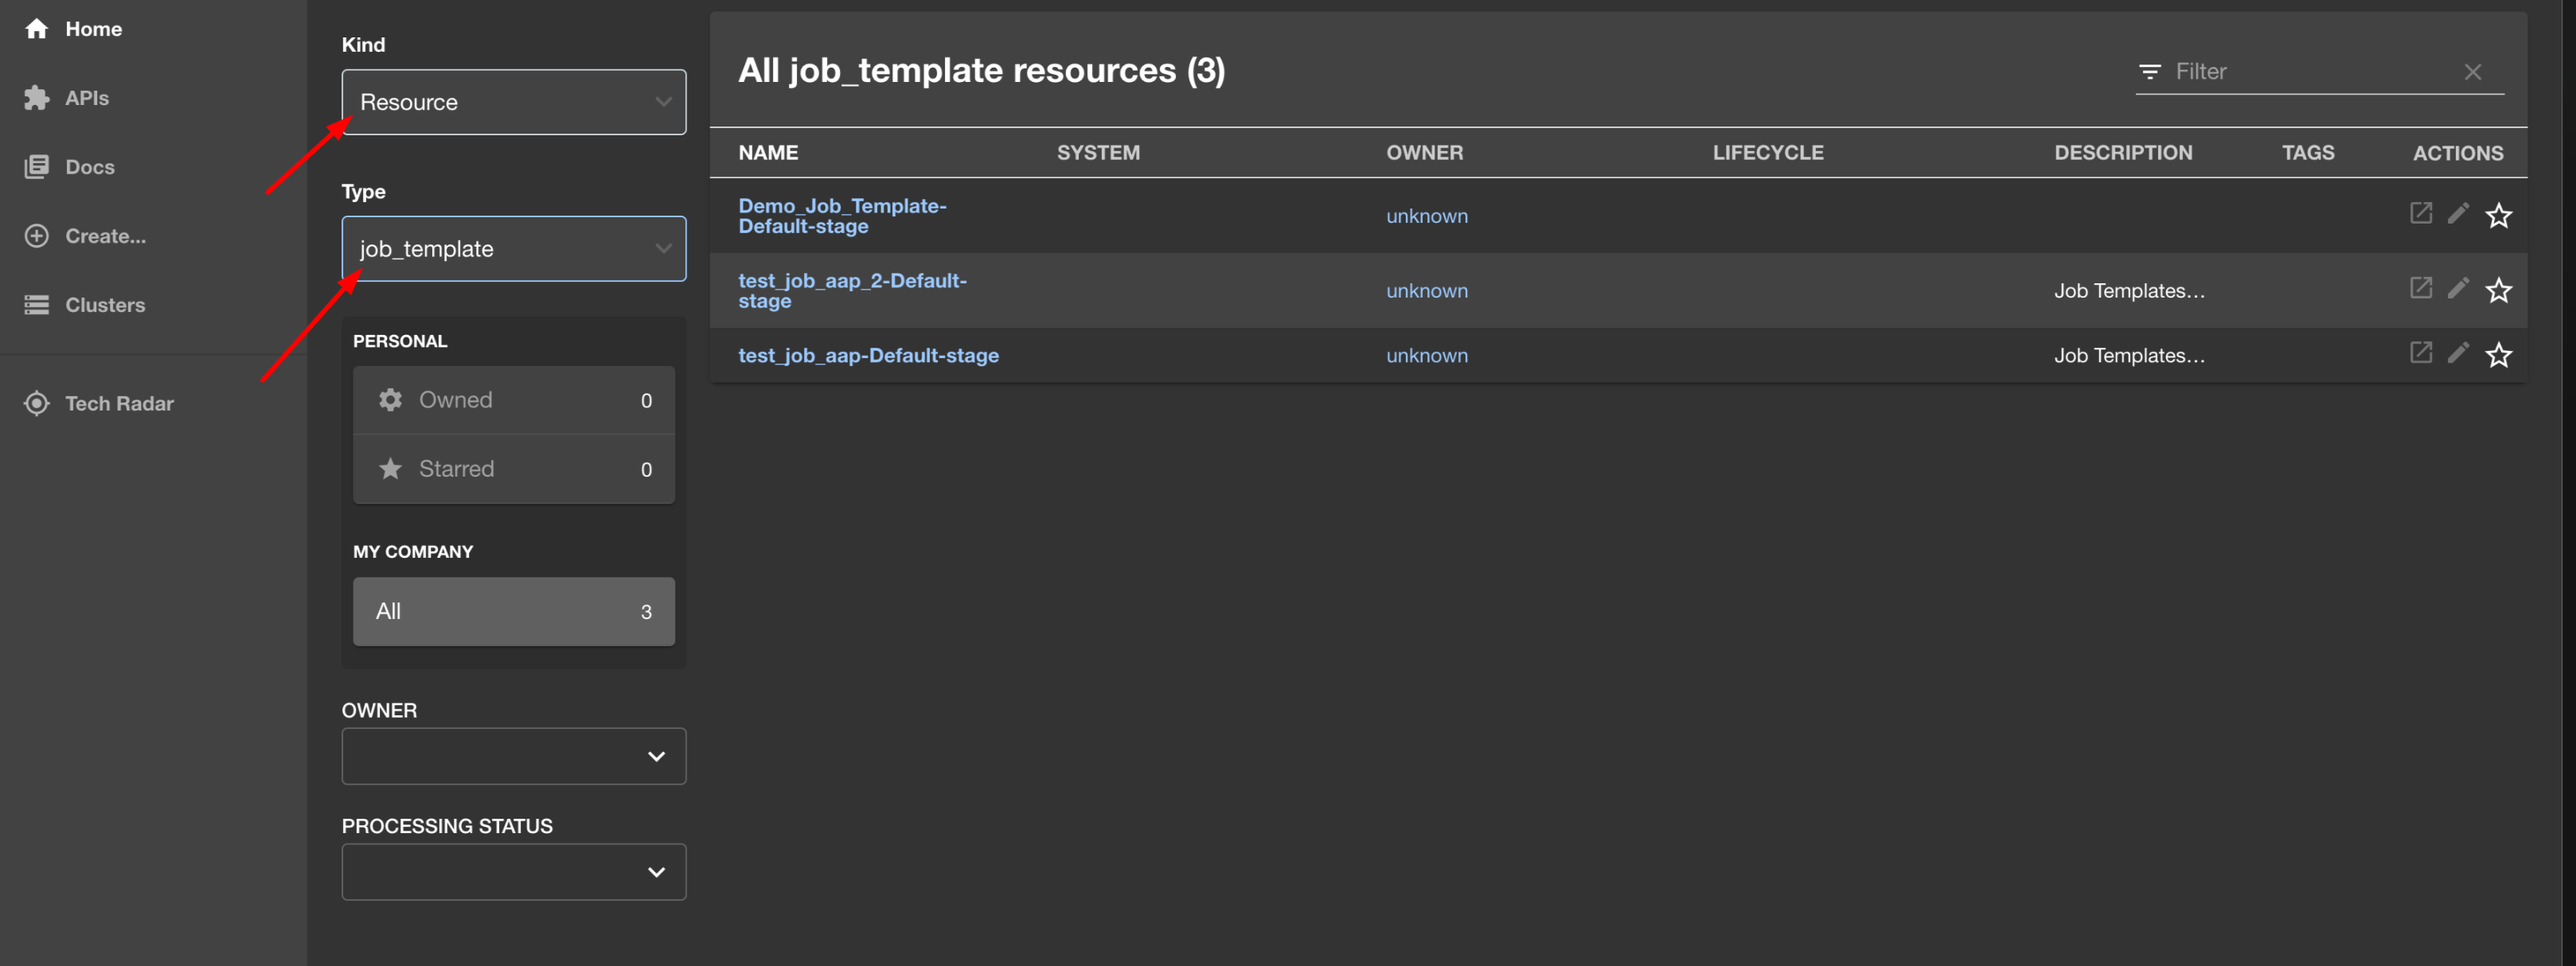
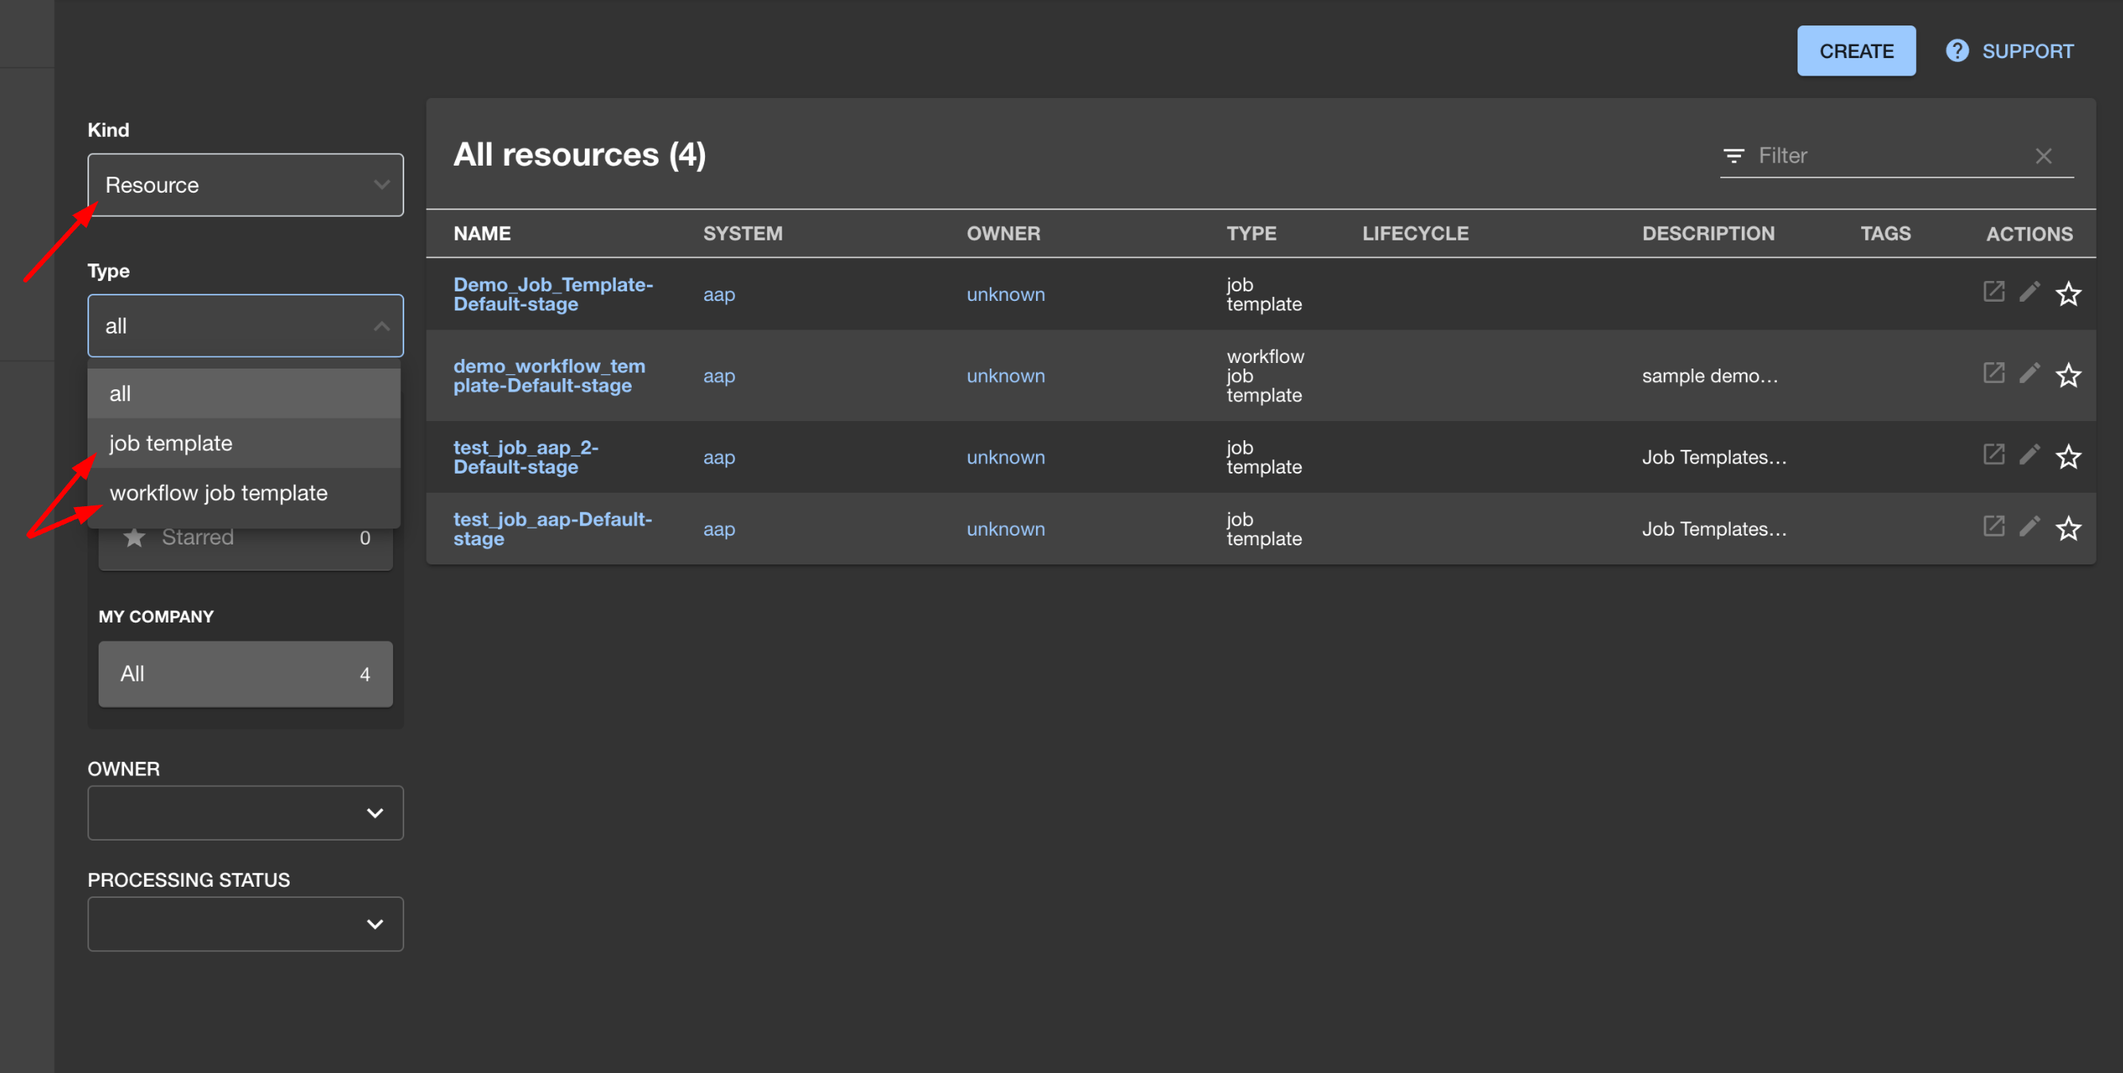
Incorporated SME review suggestions

diff --git a/plugins/aap-backend/README.md b/plugins/aap-backend/README.md
@@ -1,6 +1,6 @@
 # Ansible Automation Platform Backstage provider plugin
 
-The Ansible Automation Platform (AAP) Backstage provider plugin synchronizes the AAP content including job templates into the [Backstage](https://backstage.io/) catalog.
+The Ansible Automation Platform (AAP) Backstage provider plugin synchronizes the accessible templates including job templates and workflow job templates from AAP into the [Backstage](https://backstage.io/) catalog.
 
 ## For administrators
 
@@ -107,9 +107,9 @@ When you start your Backstage application, you can see the following log lines:
 
 ## For users
 
-### Accessing job templates from Ansible Automation Platform in Backstage
+### Accessing templates from Ansible Automation Platform in Backstage
 
-Once the AAP Backstage provider plugin is configured successfully, it synchronizes the job templates from AAP and displays them in the Backstage Catalog page as Resources.
+Once the AAP Backstage provider plugin is configured successfully, it synchronizes the templates including job templates and workflow job templates from AAP and displays them on the Backstage Catalog page as Resources.
 
 #### Prerequisites
 
@@ -119,21 +119,21 @@ Once the AAP Backstage provider plugin is configured successfully, it synchroniz
 #### Procedure
 
 1. Open your Backstage application and Go to the **Catalog** page.
-1. Select **Resource** from the **Kind** drop-down and **job_template** from the **Type** drop-down on the left side of the page.
+1. Select **Resource** from the **Kind** drop-down and **job template** or **workflow job template** from the **Type** drop-down on the left side of the page.
 
    ![aap-backend-plugin-backstage](./images/aap-backend-plugin-user1.png)
 
-   A list of all the available job templates from AAP appears on the page.
+   A list of all the available templates from AAP appears on the page.
 
-   **NOTE**: The imported job templates from AAP in Backstage follow the `{jobTemplateName}-{orgName}-{envNameInConfig}` naming syntax without white spaces. For example, in the Demo_Job_Template-Default-Stage, Demo_Job_Template is `jobTemplateName`, Default is `orgName`, and Stage is `envNameInConfig`.
+   **NOTE**: The imported templates from AAP in Backstage follow the `{jobTemplateName}-{orgName}-{envNameInConfig}` naming syntax without white spaces. For example, in the Demo_Job_Template-Default-Stage, Demo_Job_Template is `jobTemplateName`, Default is `orgName`, and Stage is `envNameInConfig`.
 
-1. Select a job template from the list.
+1. Select a template from the list.
 
    The **OVERVIEW** tab appears containing different cards, such as:
 
-   - **About**: Provides detailed information about the job template.
-   - **Relations**: Displays the visual representation of the job template and associated aspects.
-   - **Links**: Contains links to the AAP dashboard and the details page of the job template.
+   - **About**: Provides detailed information about the template.
+   - **Relations**: Displays the visual representation of the template and associated aspects.
+   - **Links**: Contains links to the AAP dashboard and the details page of the template.
    - **Has subcomponents**: Displays a list of associated subcomponents.
 
      ![aap-backend-plugin-backstage-details](./images/aap-backend-plugin-user2.png)
